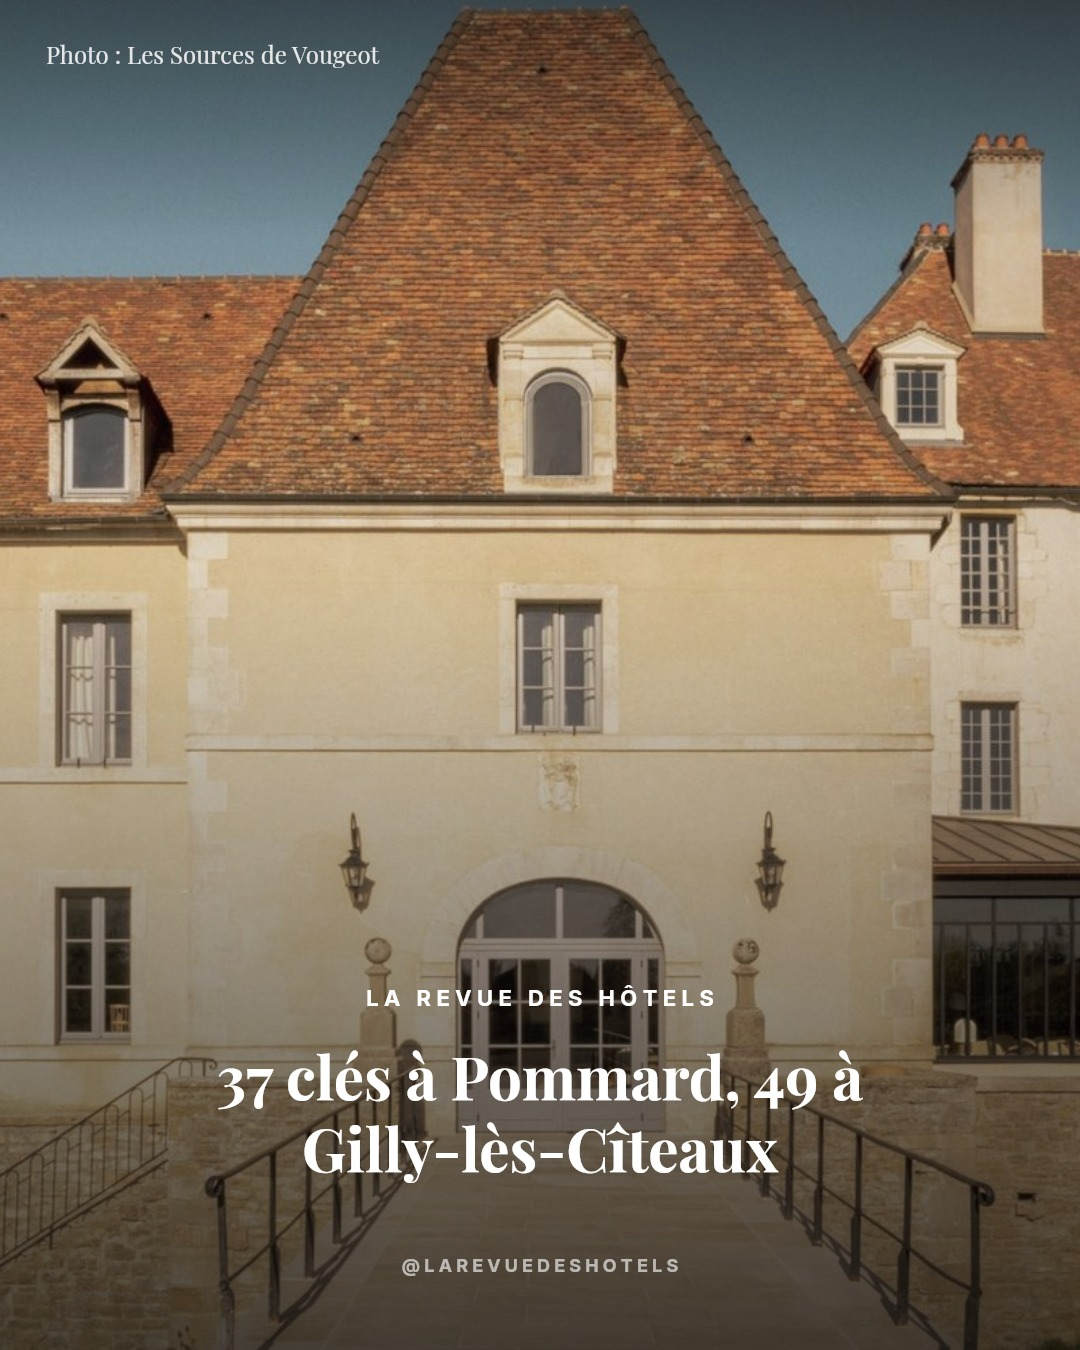
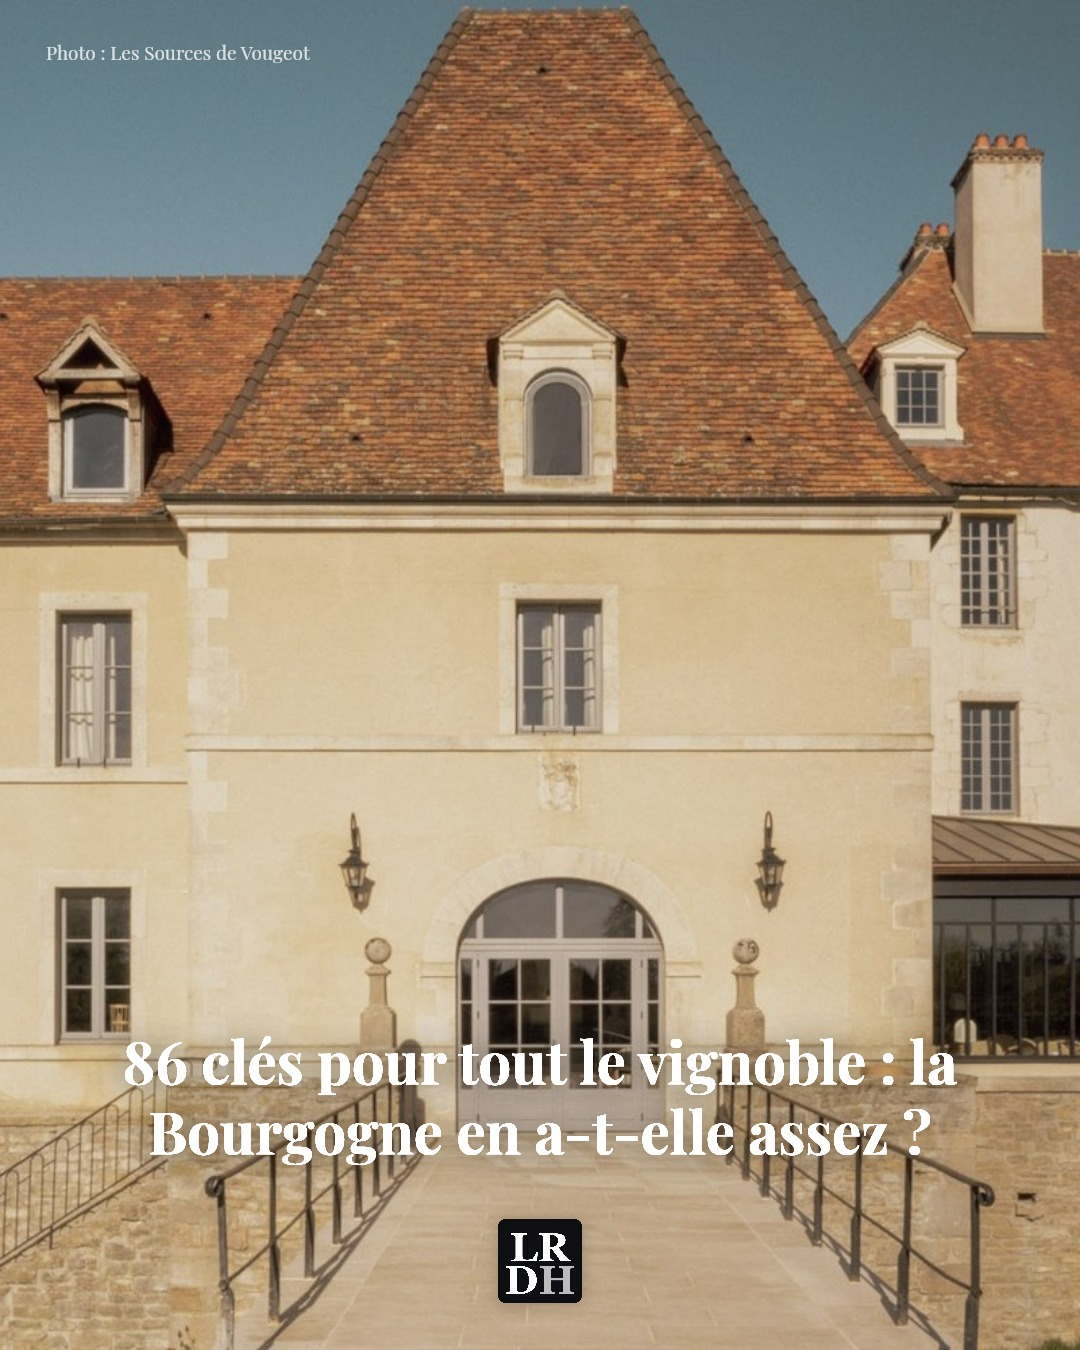
feat(hub): rendus de reference au nouveau gabarit
Six visuels pour le Val-d'Oise, dont un sans texte, et des accroches ecrites
pour Instagram plutot que pour un fil d'actualite.

diff --git a/index.html b/index.html
@@ -1125,13 +1125,13 @@ try {
   const DE  = s => String(s||'').replace(/&#8217;|&rsquo;/g,'\u2019').replace(/&amp;/g,'&').replace(/&nbsp;/g,' ');
   const FD  = iso => iso ? new Date(iso).toLocaleDateString('fr-FR',{weekday:'short',day:'2-digit',month:'short',hour:'2-digit',minute:'2-digit',timeZone:'Europe/Paris'}) : '';
   const SEED = [
-    { t:"La Bourgogne rouvre deux ch\u00e2teaux-h\u00f4tels", id:'bourgogne', n:5,
+    { t:"Deux ch\u00e2teaux de Bourgogne rouvrent en h\u00f4tels, voici ce qu'il y a dedans", id:'bourgogne', n:5,
       u:'https://larevuedeshotels.com/hotels-chateau-la-commaraine-sources-de-vougeot-bourgogne',
       c:"Le Ch\u00e2teau La Commaraine devient la premi\u00e8re adresse cinq \u00e9toiles install\u00e9e dans les vignes de Pommard, et l'ancien Ch\u00e2teau de Gilly rouvre sous le nom des Sources de Vougeot.\n\n\ud83d\udcf2 L'article complet sur larevuedeshotels.com" },
-    { t:"Trois parcs \u00e0 th\u00e8me arrivent dans le Val-d'Oise", id:'valdoise', n:5,
+    { t:"Voici \u00e0 quoi pourraient ressembler les trois parcs de Cergy-Pontoise", id:'valdoise', n:6,
       u:'https://larevuedeshotels.com/parcs-a-theme-cergy-pontoise-hotellerie-val-d-oise',
       c:"Six milliards d'euros, jusqu'\u00e0 22 000 emplois directs, et 870 chambres seulement autour du site.\n\n\u26a0\ufe0f Slide 1 : vue d'artiste g\u00e9n\u00e9r\u00e9e par intelligence artificielle.\n\n\ud83d\udcf2 L'article complet sur larevuedeshotels.com" },
-    { t:"Dubai Holding rach\u00e8te le Jumeirah de Majorque", id:'jumeirah', n:5,
+    { t:"Ce que Dubai Holding vient de racheter sur la c\u00f4te nord de Majorque", id:'jumeirah', n:5,
       u:'https://larevuedeshotels.com/l-hotel-jumeirah-port-soller-symbolise-la-fievre-des-investissements',
       c:"577 millions d'euros investis dans l'h\u00f4tellerie des Bal\u00e9ares au premier semestre 2026.\n\n\ud83d\udcf2 L'article complet sur larevuedeshotels.com" },
   ].map(x => ({ title:x.t, wpUrl:x.u, caption:x.c, status:'seed',
